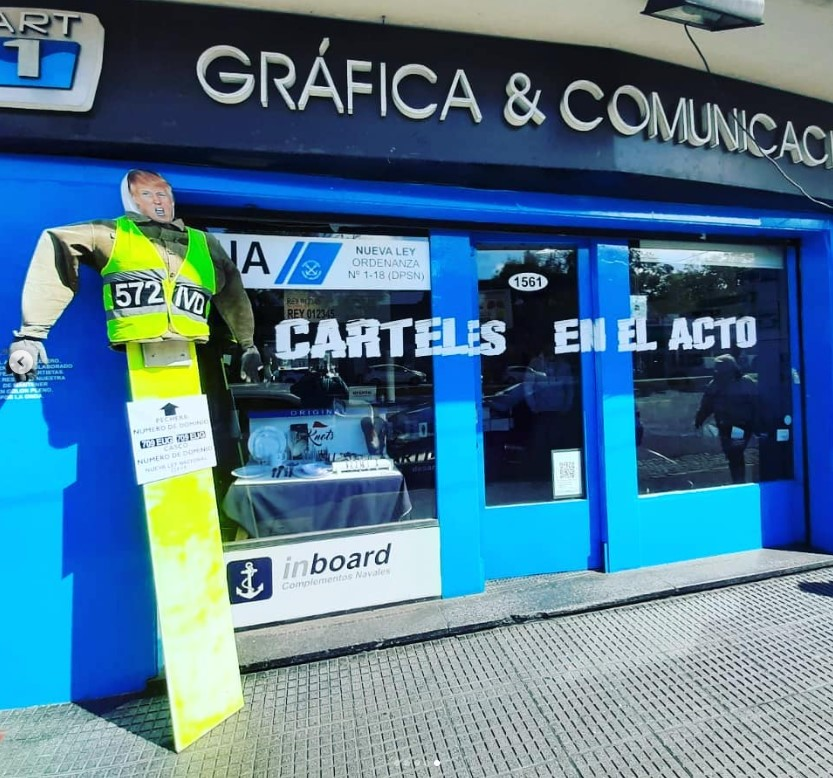
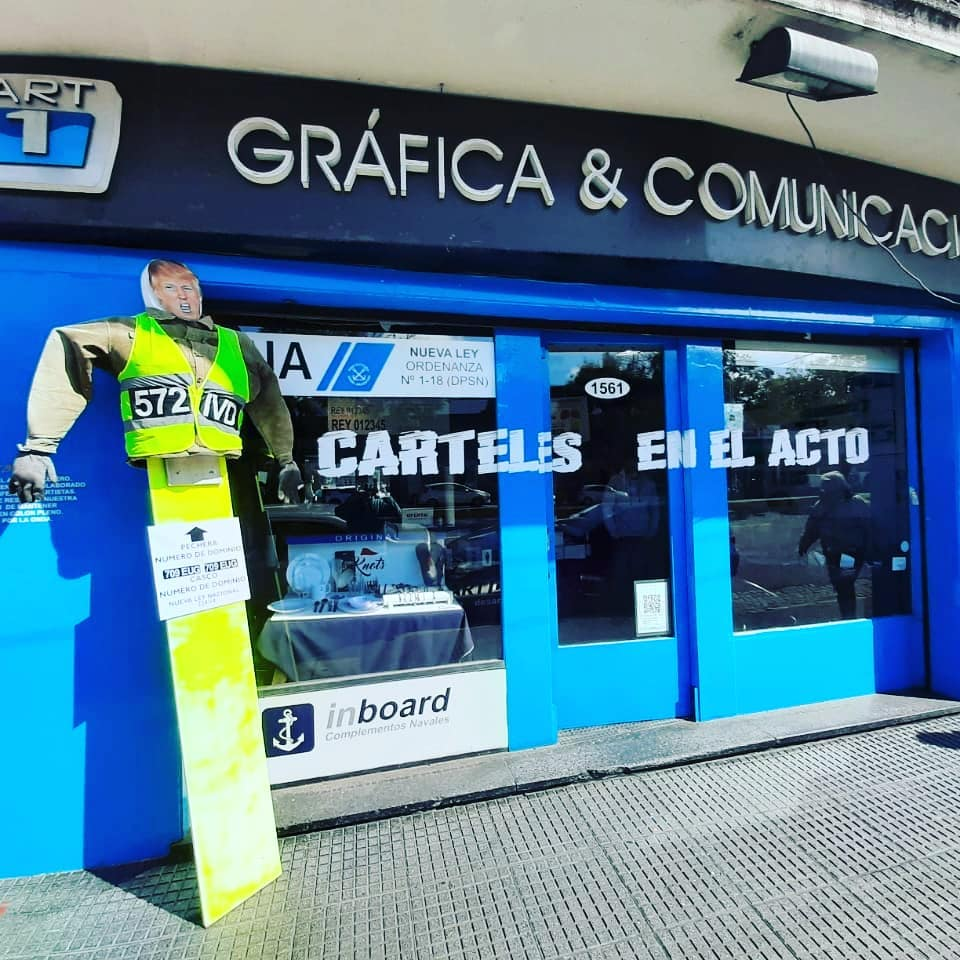
update

diff --git a/contact.html b/contact.html
@@ -55,10 +55,10 @@
 
         <nav id="navbar" class="navbar">
           <ul>
-            <li><a href="index.html" style="color: white;">Home</a></li>
-            <li><a href="about.html" style="color: white;">Nosotros</a></li>
+            <li><a href="index.html" style="color: white">Home</a></li>
+            <li><a href="about.html" style="color: white">Nosotros</a></li>
             <li class="dropdown">
-              <a href="#" style="color: white;"
+              <a href="#" style="color: white"
                 ><span>Trabajos</span>
                 <i class="bi bi-chevron-down dropdown-indicator"></i
               ></a>
@@ -70,18 +70,38 @@
                 <li><a href="gallery-impresiones.html">Impresión</a></li>
               </ul>
             </li>
-            <li><a href="services.html" style="color: white;">Servicios</a></li>
-            <li><a href="contact.html" class="active"  style="color: white;">Contacto</a></li>
+            <li><a href="services.html" style="color: white">Servicios</a></li>
+            <li>
+              <a href="contact.html" class="active" style="color: white"
+                >Contacto</a
+              >
+            </li>
           </ul>
         </nav>
         <!-- .navbar -->
 
         <div class="header-social-links">
-          <a href="https://www.facebook.com/art1.com.ar" target="_blank" class="facebook"><i class="bi bi-facebook"></i></a>
-          <a href="https://www.instagram.com/art1.com.ar/" target="_blank" class="instagram"><i class="bi bi-instagram"></i></a>
+          <a
+            href="https://www.facebook.com/art1.com.ar"
+            target="_blank"
+            class="facebook"
+            ><i class="bi bi-facebook"></i
+          ></a>
+          <a
+            href="https://www.instagram.com/art1.com.ar/"
+            target="_blank"
+            class="instagram"
+            ><i class="bi bi-instagram"></i
+          ></a>
         </div>
-        <i class="mobile-nav-toggle mobile-nav-show bi bi-list" style="color: rgba(255, 255, 255, 0.5);"></i>
-        <i class="mobile-nav-toggle mobile-nav-hide d-none bi bi-x" style="color: white;"></i>
+        <i
+          class="mobile-nav-toggle mobile-nav-show bi bi-list"
+          style="color: rgba(255, 255, 255, 0.5)"
+        ></i>
+        <i
+          class="mobile-nav-toggle mobile-nav-hide d-none bi bi-x"
+          style="color: white"
+        ></i>
       </div>
     </header>
     <!-- End Header -->
@@ -92,7 +112,9 @@
         <div class="container position-relative">
           <div class="row d-flex justify-content-center">
             <div class="col-lg-6 text-center">
-              <h3 style=" font-family: var(--font-secondary);margin-top: 50px;">¿En que te podemos ayudar?</h3>
+              <h3 style="font-family: var(--font-secondary); margin-top: 50px">
+                ¿En que te podemos ayudar?
+              </h3>
               <!-- <p>
                 ¿En qué te podemos ayudar?
               </p> -->
@@ -118,7 +140,6 @@
               </div>
             </div>
 
-
             <div class="col-lg-3">
               <div class="info-item d-flex">
                 <i class="bi bi-envelope flex-shrink-0"></i>
@@ -128,7 +149,6 @@
                 </div>
               </div>
             </div>
-
 
             <div class="col-lg-3">
               <div class="info-item d-flex">
@@ -140,7 +160,6 @@
               </div>
             </div>
 
-            
             <div class="col-lg-3">
               <div class="info-item d-flex">
                 <i class="bi bi-whatsapp flex-shrink-0"></i>
@@ -150,27 +169,32 @@
                 </div>
               </div>
             </div>
-
           </div>
 
           <div class="row justify-content-center mt-4">
-            <iframe src="https://www.google.com/maps/embed?pb=!1m18!1m12!1m3!1d3288.655313506062!2d-58.50472728423168!3d-34.48626735880126!2m3!1f0!2f0!3f0!3m2!1i1024!2i768!4f13.1!3m3!1m2!1s0x95bcb1aea296f859%3A0xd7177fc77b274c87!2sart1!5e0!3m2!1sen!2sar!4v1662393396926!5m2!1sen!2sar" width="600" height="450" style="border:0;" allowfullscreen="" loading="lazy" referrerpolicy="no-referrer-when-downgrade"></iframe>
+            <iframe
+              src="https://www.google.com/maps/embed?pb=!1m18!1m12!1m3!1d3288.655313506062!2d-58.50472728423168!3d-34.48626735880126!2m3!1f0!2f0!3f0!3m2!1i1024!2i768!4f13.1!3m3!1m2!1s0x95bcb1aea296f859%3A0xd7177fc77b274c87!2sart1!5e0!3m2!1sen!2sar!4v1662393396926!5m2!1sen!2sar"
+              width="600"
+              height="450"
+              style="border: 0"
+              allowfullscreen=""
+              loading="lazy"
+              referrerpolicy="no-referrer-when-downgrade"
+            ></iframe>
           </div>
-          <div class="row justify-content-center mt-4">
-            <img src="assets/img/local.jpg">
+          <br>
+          <div class="col-lg-12">
+            <img src="assets/img/shop.jpg" width="100%" height="auto" />
           </div>
-         
         </div>
       </section>
     </main>
     <!-- End #main -->
 
     <!-- ======= Footer ======= -->
-    <footer id="footer" class="footer" style="margin-top: 100px;">
+    <footer id="footer" class="footer" style="margin-top: 100px">
       <div class="container">
-        <div class="copyright">
-          &copy; Copyright Art1 2022
-        </div>
+        <div class="copyright">&copy; Copyright Art1 2022</div>
         <div class="credits"></div>
       </div>
     </footer>
